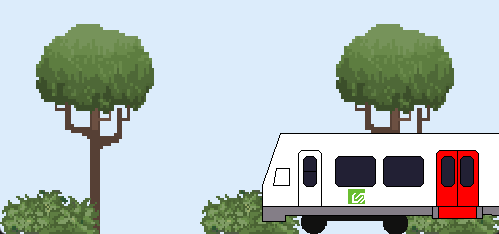
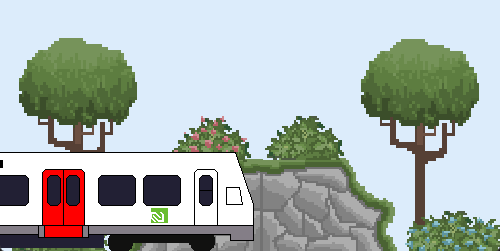
New objects and other fixes

diff --git a/engine/multiplayer/connection.py b/engine/multiplayer/connection.py
@@ -10,6 +10,12 @@ DISCONNECT_MESSAGE = "00"
 SERVER = "192.168.1.45"
 ADDR = (SERVER, PORT)
 
+#
+#===================================
+#       VERY EXPERIMENTAL
+#===================================
+#
+
 class connection():
     def __init__(self,trains,camera):
         self.trains=trains
@@ -34,20 +40,22 @@ class connection():
         while True:
             #First this method identify the type of data that server are sending
             data_id=self.client.recv(HEADER).decode(FORMAT)
-            if data_id:
-                #Player data like coords, username...
-                if data_id=="01":
-                    playerID=self.client.recv(2).decode(FORMAT)
-                    if playerID in self.trains:
-                        xpos=self.client.recv(6).decode(FORMAT)
-                        ypos=self.client.recv(6).decode(FORMAT)
-                        self.trains[playerID].updateCords(int(xpos))
-                    #If the player not exists we add them to the user dict
-                    else:
-                        self.trains[playerID]=engine.train.TrainObject("Train",["objects","complete_train.png"],-500,100)
-                        xpos=self.client.recv(6).decode(FORMAT)
-                        ypos=self.client.recv(6).decode(FORMAT)
-                        self.trains[playerID].updateCords(int(xpos))
+            #Player data like coords, username...
+            if data_id=="01":
+                print("Recibo el 01")
+                playerID=self.client.recv(2).decode(FORMAT)
+                if playerID in self.trains:
+                    xpos=self.client.recv(6).decode(FORMAT)
+                    ypos=self.client.recv(6).decode(FORMAT)
+                    self.trains[playerID].updateCords(int(xpos))
+                    print("Train in posX", xpos, "by playedID", playerID)
+                #If the player not exists we add them to the user dict
+                else:
+                    print("No existe")
+                    self.trains[playerID]=engine.train.TrainObject("User "+ playerID,["objects","complete_train.png"],-500,100)
+                    xpos=self.client.recv(6).decode(FORMAT)
+                    ypos=self.client.recv(6).decode(FORMAT)
+                    self.trains[playerID].updateCords(int(xpos))
     def sendCords(self):
         while True:
             #Sending data id
@@ -59,4 +67,3 @@ class connection():
             self.client.send(xpos)
             ypos = str("654321").encode(FORMAT)
             self.client.send(ypos)
-            time.sleep(0.01)

diff --git a/engine/game_engine.py b/engine/game_engine.py
@@ -31,8 +31,8 @@ class gameEngine():
         self.trains.add(self.train)
         self.section=0
         self.uiManager=engine.UI.UIManager.UI(self)
-        #printInfo=threading.Thread(target=self.mpTrainList)
-        #printInfo.start()
+        printInfo=threading.Thread(target=self.mpTrainList)
+        printInfo.start()
 
     def isRunning(self):
         return self.running
@@ -58,8 +58,9 @@ class gameEngine():
         #Multiplayer Update in progress
         #for train in self.mpTrains.values():
         #    screen.blit(train.image,train.getCoords())
-        self.trains.draw(screen)
-        self.trains.update()
+        #    userTagID = self.font.render(train.getName(), True, (255, 255, 0))
+        #    screen.blit(userTagID, (train.getCoords()[0], train.getCoords()[1]))
+        
         # POSIBLE VISIBLE SECTION 0
         self.gameObjs[0].draw(screen)
         self.gameObjs[0].update(self.camera.getCords())
@@ -69,6 +70,9 @@ class gameEngine():
         # POSIBLE VISIBLE SECTION 2
         self.gameObjs[2].draw(screen)
         self.gameObjs[2].update(self.camera.getCords())
+        #Draw train
+        self.trains.draw(screen)
+        self.trains.update()
         #Draws debug info if Debugging mode is enabled
         if(self.debug):
             fps_count = self.font.render('FPS: '+str(clockFPS), True, (0, 255, 0))
@@ -103,9 +107,10 @@ class gameEngine():
                     self.camera.decreaseSpeed()
                 if event.key == pg.K_d:
                     self.camera.increaseSpeed()
-            #Mouse check
+            #Mouse event
             if event.type == pg.MOUSEBUTTONUP:
                 print(self.uiManager.checkButtonPressed())    
+            #Screen resize event
             if event.type==pg.VIDEORESIZE:
                 print("si")
                 self.gameObjs.clear()

diff --git a/engine/map_load.py b/engine/map_load.py
@@ -41,7 +41,9 @@ class mapDefinitions():
             "2":[["objects","bush1.png"],(100, 100)],
             "3":[["objects","bush2.png"],(100, 100)],
             "4":[["objects","bushflowers1.png"],(100, 100)],
-            "5":[["objects","bushflowers2.png"],(100, 100)]}
+            "5":[["objects","bushflowers2.png"],(100, 100)],
+            "6":[["objects","midMount_L.png"],(139, 101)],
+            "7":[["objects","midMount_R.png"],(139, 101)]}
     
     # Returns a list of a sprite dir of the requested object
     def getDir(self,name):

diff --git a/mapEditor/engine/map_system.py b/mapEditor/engine/map_system.py
@@ -50,7 +50,9 @@ class mapDefinitions():
             "2":[["objects","bush1.png"],(100, 100)],
             "3":[["objects","bush2.png"],(100, 100)],
             "4":[["objects","bushflowers1.png"],(100, 100)],
-            "5":[["objects","bushflowers2.png"],(100, 100)]}
+            "5":[["objects","bushflowers2.png"],(100, 100)],
+            "6":[["objects","midMount_L.png"],(139, 101)],
+            "7":[["objects","midMount_R.png"],(139, 101)]}
     
     # Returns a list of a sprite dir of the requested object
     def getDir(self,name):

diff --git a/engine/train.py b/engine/train.py
@@ -21,6 +21,9 @@ class TrainObject(pg.sprite.Sprite):
     def getSpeed(self):
         return self.speed
 
+    def getName(self):
+        return self.name
+
     def getCurrentPos(self):
         return int(self.route)
         
